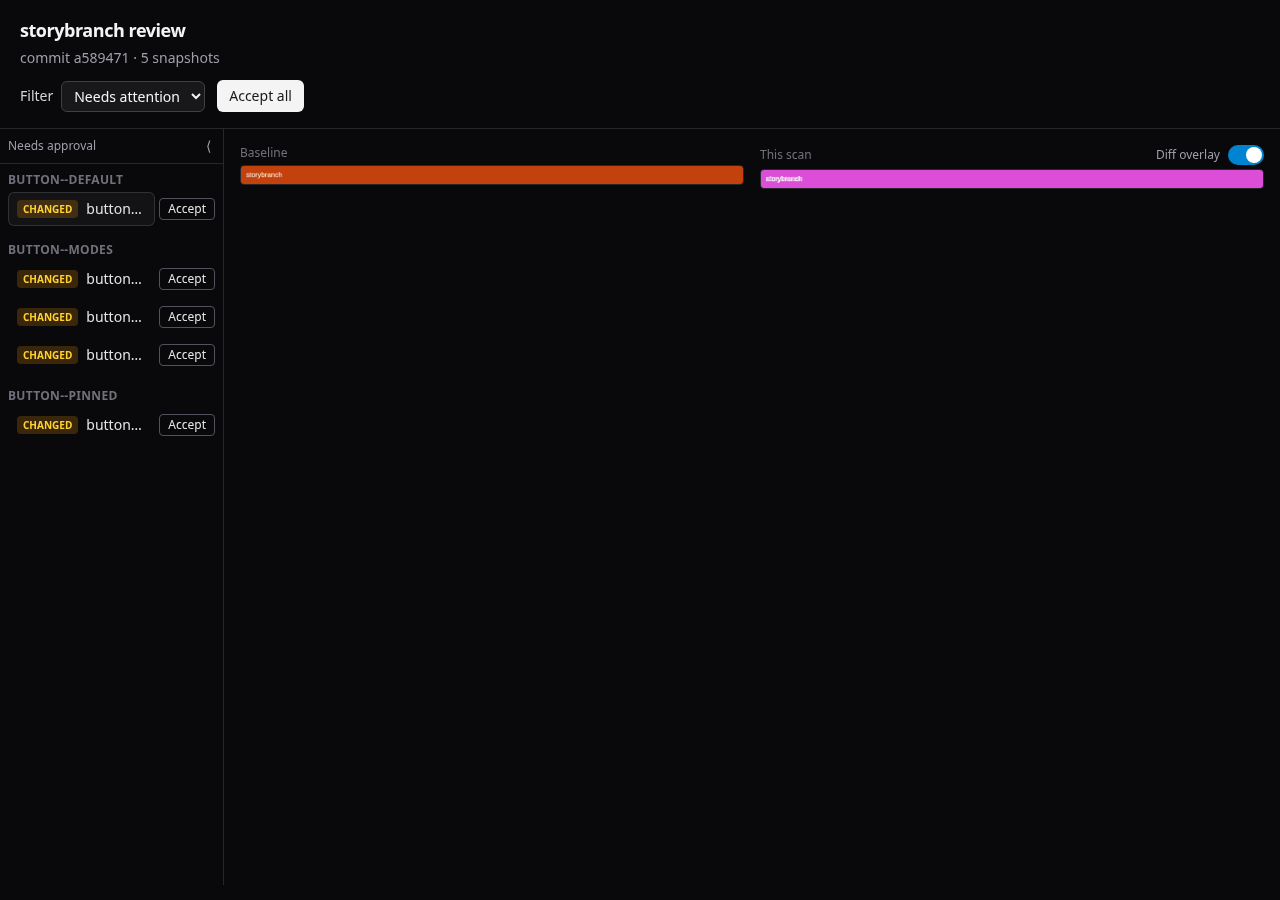
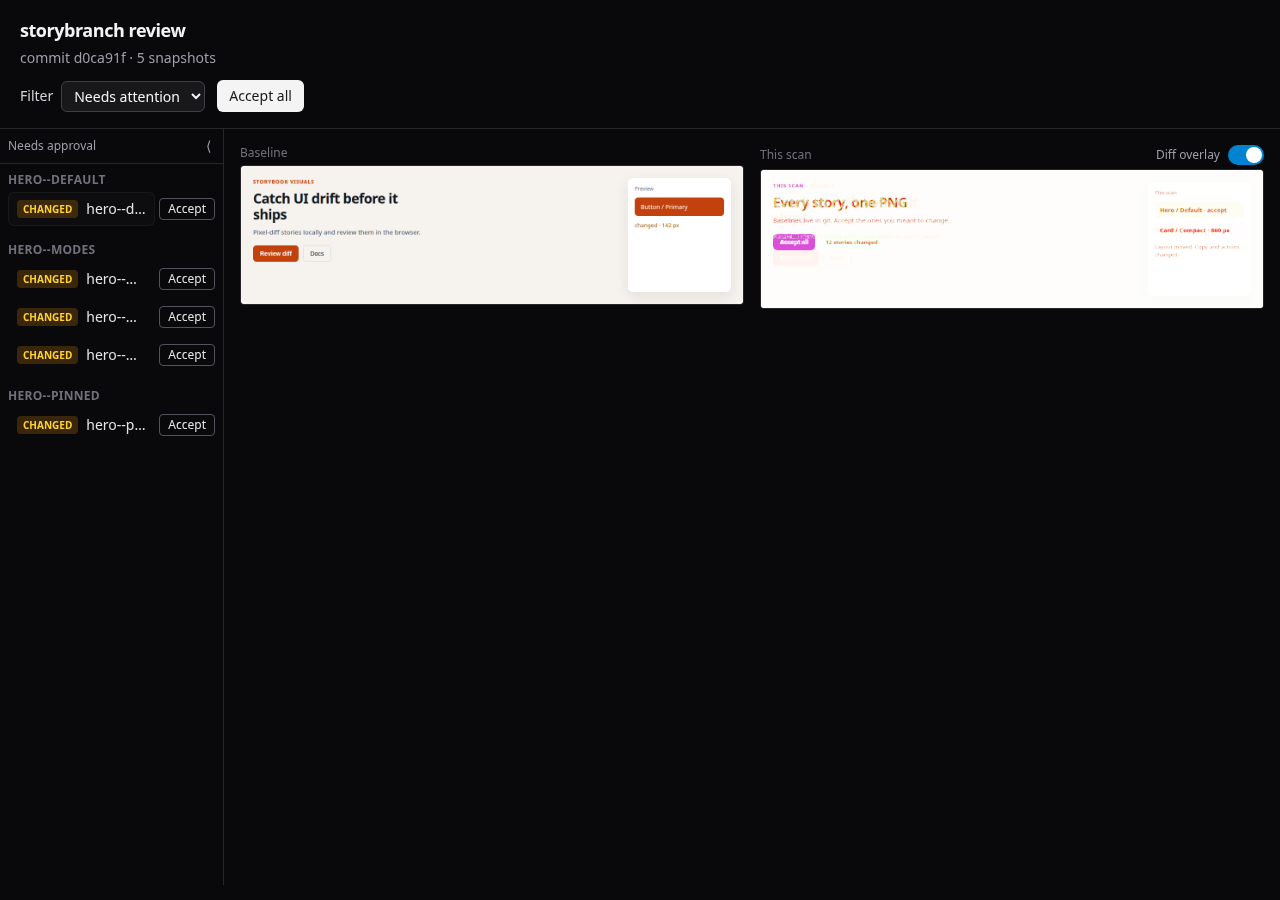
Show a sample hero in the visual before-and-after.
The fixture, marketing review demo, and README shots were a tiny button color swap. The hero changes the headline, actions, and side card so the pixel diff is obvious.

diff --git a/packages/fixture/stories/hero.stories.tsx b/packages/fixture/stories/hero.stories.tsx
@@ -1,0 +1,218 @@
+import type { Meta, StoryObj } from "@storybook/react-vite";
+
+const revised = false;
+
+const Hero = () => {
+  const headline = revised
+    ? "Every story, one PNG"
+    : "Catch UI drift before it ships";
+
+  const detail = revised
+    ? "Baselines live in git. Accept the ones you meant to change."
+    : "Pixel-diff stories locally and review them in the browser.";
+
+  return (
+    <section
+      style={{
+        background: "#f6f3ee",
+        borderRadius: 16,
+        boxSizing: "border-box",
+        color: "#14181f",
+        display: "grid",
+        fontFamily: "ui-sans-serif, system-ui, sans-serif",
+        gap: 24,
+        gridTemplateColumns: "1fr 240px",
+        height: 320,
+        overflow: "hidden",
+        padding: 28,
+        width: "100%",
+      }}
+    >
+      <div>
+        <p
+          style={{
+            color: revised ? "#1d4ed8" : "#c2410c",
+            fontSize: 12,
+            fontWeight: 700,
+            letterSpacing: "0.08em",
+            margin: 0,
+          }}
+        >
+          {revised ? "THIS SCAN" : "STORYBOOK VISUALS"}
+        </p>
+        <h1
+          style={{
+            fontSize: 32,
+            fontWeight: 700,
+            letterSpacing: "-0.03em",
+            lineHeight: 1.15,
+            margin: "12px 0 0",
+            maxWidth: 420,
+          }}
+        >
+          {headline}
+        </h1>
+        <p
+          style={{
+            color: "#4a5568",
+            fontSize: 15,
+            lineHeight: 1.45,
+            margin: "12px 0 0",
+            maxWidth: 420,
+          }}
+        >
+          {detail}
+        </p>
+        <div
+          style={{ display: "flex", flexWrap: "wrap", gap: 10, marginTop: 20 }}
+        >
+          <button
+            style={{
+              background: revised ? "#1d4ed8" : "#c2410c",
+              border: 0,
+              borderRadius: 8,
+              color: "#fff",
+              fontSize: 14,
+              fontWeight: 600,
+              padding: "10px 16px",
+            }}
+            type="button"
+          >
+            {revised ? "Accept all" : "Review diff"}
+          </button>
+          {revised ? (
+            <span
+              style={{
+                alignItems: "center",
+                background: "#dcfce7",
+                borderRadius: 999,
+                color: "#166534",
+                display: "inline-flex",
+                fontSize: 13,
+                fontWeight: 700,
+                padding: "10px 14px",
+              }}
+            >
+              12 stories changed
+            </span>
+          ) : (
+            <button
+              style={{
+                background: "transparent",
+                border: "1px solid #d4d4d8",
+                borderRadius: 8,
+                color: "#14181f",
+                fontSize: 14,
+                padding: "10px 16px",
+              }}
+              type="button"
+            >
+              Docs
+            </button>
+          )}
+        </div>
+      </div>
+      <aside
+        style={{
+          background: "#fff",
+          borderRadius: 12,
+          boxShadow: "0 10px 30px rgb(20 24 31 / 8%)",
+          padding: 16,
+        }}
+      >
+        <p style={{ color: "#71717a", fontSize: 12, margin: 0 }}>
+          {revised ? "This scan" : "Preview"}
+        </p>
+        {revised ? (
+          <ul style={{ listStyle: "none", margin: "12px 0 0", padding: 0 }}>
+            <li
+              style={{
+                background: "#f0fdf4",
+                borderRadius: 8,
+                color: "#166534",
+                fontSize: 14,
+                fontWeight: 600,
+                padding: "10px 12px",
+              }}
+            >
+              Hero / Default · accept
+            </li>
+            <li
+              style={{
+                background: "#fef2f2",
+                borderRadius: 8,
+                color: "#b91c1c",
+                fontSize: 14,
+                fontWeight: 600,
+                marginTop: 8,
+                padding: "10px 12px",
+              }}
+            >
+              Card / Compact · 860 px
+            </li>
+            <li
+              style={{
+                color: "#71717a",
+                fontSize: 13,
+                marginTop: 10,
+              }}
+            >
+              Layout moved. Copy and actions changed.
+            </li>
+          </ul>
+        ) : (
+          <>
+            <div
+              style={{
+                background: "#c2410c",
+                borderRadius: 8,
+                color: "#fff",
+                fontSize: 14,
+                marginTop: 12,
+                padding: "12px 14px",
+              }}
+            >
+              Button / Primary
+            </div>
+            <p style={{ color: "#a16207", fontSize: 13, margin: "12px 0 0" }}>
+              changed · 142 px
+            </p>
+          </>
+        )}
+      </aside>
+    </section>
+  );
+};
+
+const meta = {
+  component: Hero,
+  title: "Hero",
+} satisfies Meta<typeof Hero>;
+
+export default meta;
+
+type Story = StoryObj<typeof meta>;
+
+export const Default: Story = {};
+
+export const Pinned: Story = {
+  globals: {
+    viewport: { isRotated: false, value: "mobile1" },
+  },
+};
+
+export const Modes: Story = {
+  parameters: {
+    chromatic: {
+      modes: {
+        narrow: { viewport: 320 },
+        tall: { viewport: { height: 200, width: 400 } },
+        wide: { viewport: 800 },
+      },
+    },
+  },
+};
+
+export const Skipped: Story = {
+  tags: ["!test"],
+};

diff --git a/scripts/capture-readme-screenshots.ts b/scripts/capture-readme-screenshots.ts
@@ -6,21 +6,19 @@
 import { mkdir, mkdtemp, readFile, writeFile } from "node:fs/promises";
 import { tmpdir } from "node:os";
 import path from "node:path";
+
 import { chromium } from "playwright";
 
+import { startReviewServer } from "../apps/cli/src/review-server.ts";
 import { capture } from "../packages/core/src/capture.ts";
 import { promoteActuals } from "../packages/core/src/images.ts";
-import { startReviewServer } from "../apps/cli/src/review-server.ts";
 
 const root = path.join(import.meta.dir, "..");
 const outDir = path.join(root, "docs", "images");
 const storybookPort = 6020;
 const reviewPort = 4322;
 const url = `http://127.0.0.1:${storybookPort}`;
-const storyPath = path.join(
-  root,
-  "packages/fixture/stories/button.stories.tsx"
-);
+const storyPath = path.join(root, "packages/fixture/stories/hero.stories.tsx");
 const originalStory = await readFile(storyPath, "utf-8");
 
 const storybook = Bun.spawn({
@@ -156,7 +154,7 @@ try {
     browser,
     work,
     "review-missing-baselines.png",
-    "button--default__1200x900.png",
+    "hero--default__1200x900.png",
     false
   );
 
@@ -170,7 +168,7 @@ try {
 
   await writeFile(
     storyPath,
-    originalStory.replace("#c2410c", "#1d4ed8"),
+    originalStory.replace("const revised = false;", "const revised = true;"),
     "utf-8"
   );
   await Bun.sleep(1500);
@@ -185,7 +183,7 @@ try {
     browser,
     work,
     "review-pixel-diff.png",
-    "button--default__1200x900.png",
+    "hero--default__1200x900.png",
     true
   );
 

diff --git a/apps/cli/src/e2e.test.ts b/apps/cli/src/e2e.test.ts
@@ -57,7 +57,7 @@ test(
             ".storybranch",
             "actual",
             hash,
-            "button--default__1200x900.png"
+            "hero--default__1200x900.png"
           )
         ).exists()
       ).toBe(true);
@@ -75,11 +75,11 @@ test(
       const baselineNames = await readdir(baselineDir);
       const baselines = baselineNames.toSorted();
       expect(baselines).toEqual([
-        "button--default__1200x900.png",
-        "button--modes__narrow.png",
-        "button--modes__tall.png",
-        "button--modes__wide.png",
-        "button--pinned__mobile1.png",
+        "hero--default__1200x900.png",
+        "hero--modes__narrow.png",
+        "hero--modes__tall.png",
+        "hero--modes__wide.png",
+        "hero--pinned__mobile1.png",
       ]);
     } catch (error) {
       const text = Buffer.concat(logs).toString();

diff --git a/README.md b/README.md
@@ -33,8 +33,8 @@ Nothing in `.storybranch/baseline/` yet, so every snapshot is **new**. The CLI l
 ```text
 $ bunx storybranch test --url http://127.0.0.1:6006
 storybranch review at http://127.0.0.1:4321
-missing baseline button--default__1200x900.png
-missing baseline button--modes__narrow.png
+missing baseline hero--default__1200x900.png
+missing baseline hero--modes__narrow.png
 …
 ```
 
@@ -49,14 +49,14 @@ After you change a component, the next run marks mismatches as **changed** and h
 ```text
 $ bunx storybranch test --url http://127.0.0.1:6006
 storybranch review at http://127.0.0.1:4321
-pixels button--default__1200x900.png
-pixels button--modes__narrow.png
+pixels hero--default__1200x900.png
+pixels hero--modes__narrow.png
 …
 ```
 
 ![Review UI comparing baseline and this scan with diff overlay](docs/images/review-pixel-diff.png)
 
-The fixture in this repo uses a tiny orange “button” story; the screenshot above is from temporarily shifting it to blue to demonstrate the diff view.
+The fixture story is a sample hero. The screenshot above is that hero after the headline, actions, and side panel change.
 
 ## Features
 
